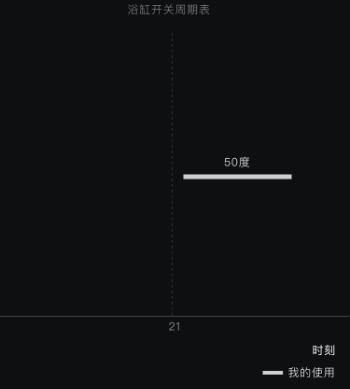
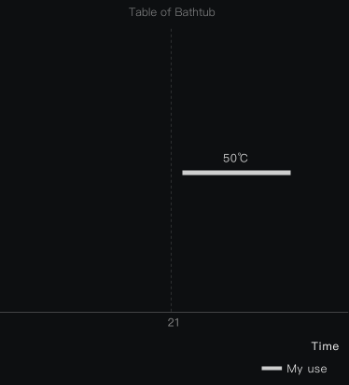
z

diff --git a/app/pages/device-controller/toilet-controller/toilet-learning/toilet.learning.js b/app/pages/device-controller/toilet-controller/toilet-learning/toilet.learning.js
@@ -35,8 +35,12 @@ angular.module('toiletControlModule')
       $scope.chuchousetval = false;
       // $scope.anjianvoicesetval = true,
       // $scope.welcomemsetval = false
+      if (window.localStorage.language == "default"||window.localStorage.language == '中文简体') {
+        $scope.image = 'build/img/toilet-controller/toilet-learning/mt2.png';
+      }else if(window.localStorage.language == 'English'){
+        $scope.image = 'build/img/toilet-controller/toilet-learning/mte2.png';
+      }
 
-      $scope.image = 'build/img/toilet-controller/toilet-learning/mt2.png';
 
       //$scope.next = function () {
       //  $scope.index += 1;

diff --git a/app/pages/device-controller/mc-controller/mc-learning/mc.learning.js b/app/pages/device-controller/mc-controller/mc-learning/mc.learning.js
@@ -18,8 +18,12 @@ angular.module('mcControlModule')
       $scope.isOn = false;
       $scope.img ='build/img/toilet-controller/toilet-learning/btn_off.png';
       $scope.isDay =  true;
+      if (window.localStorage.language == "default"|| window.localStorage.language == '中文简体') {
+        $scope.image = 'build/img/mc-controller/mc-learning/jg1.png';
+      }else if(window.localStorage.language == 'English'){
+        $scope.image = 'build/img/mc-controller/mc-learning/jge1.png';
+      }
 
-      $scope.image = 'build/img/mc-controller/mc-learning/jg1.png';
 
 
       $scope.goBack = function () {

diff --git a/app/pages/device-controller/toilet-controller/toilet-learning/toilet.learning.html b/app/pages/device-controller/toilet-controller/toilet-learning/toilet.learning.html
@@ -1,7 +1,7 @@
 <ion-view class="toilet-learn">
   <div class="bar bar-header header" style="background-image: none">
     <button class="button button-icon icon ion-ios-arrow-left header_buttonRig" ng-click="goBack()"></button>
-    <div class="h1 title header_title" translate="toiletController.toiletLearn.title">马桶机器学习设置</div>
+    <div class="h1 title header_title" style="margin-left: 0.5rem" translate="toiletController.toiletLearn.title">马桶机器学习设置</div>
   </div>
   <ion-content class="toilet-bg">
     <!--<div style="width: 100vh;background: black">-->

diff --git a/app/pages/device-controller/bathroom-controller/bathroom-learning/bathroom.learning.js b/app/pages/device-controller/bathroom-controller/bathroom-learning/bathroom.learning.js
@@ -36,7 +36,12 @@ angular.module('bathroomModule')
       // $scope.welcomemsetval = false
 
       $scope.index = 0;
-      $scope.image = 'build/img/bathroom/bathroom-learning/yb1.png';
+      if (window.localStorage.language == "default"|| window.localStorage.language == '中文简体') {
+        $scope.image = 'build/img/bathroom/bathroom-learning/yb1.png';
+      }else if(window.localStorage.language == 'English'){
+        $scope.image = 'build/img/bathroom/bathroom-learning/ybe1.png';
+      }
+
 
       $scope.change = function () {
         $scope.isOn =  !$scope.isOn;

diff --git a/app/pages/device-controller/karess-controller/karess-learning/karess.learning.js b/app/pages/device-controller/karess-controller/karess-learning/karess.learning.js
@@ -36,8 +36,12 @@ angular.module('karessControlModule')
       // $scope.welcomemsetval = false
 
       $scope.index = 0;
+      if (window.localStorage.language == "default"|| window.localStorage.language == '中文简体') {
+        $scope.image = 'build/img/karess-controller/karess-learning/yg1.png';
+      }else if(window.localStorage.language == 'English'){
+        $scope.image = 'build/img/karess-controller/karess-learning/yge1.png';
+      }
 
-      $scope.image = 'build/img/karess-controller/karess-learning/yg1.png';
 
 
       $scope.change = function () {
